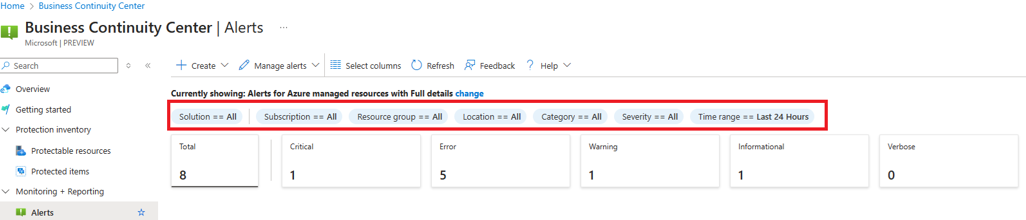
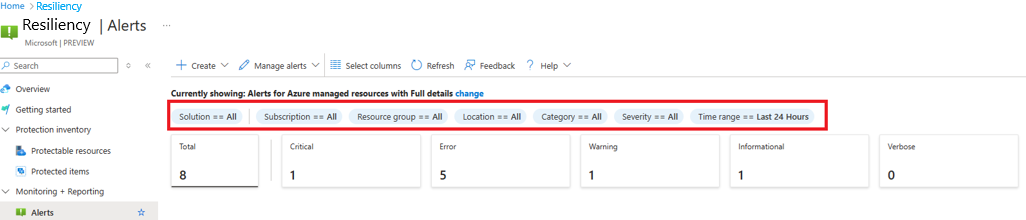
include file updates

Changed region(s): [[0.0, 0.0818, 0.2807, 0.1636], [0.0312, 0.0, 0.1559, 0.0545]]

diff --git a/includes/business-continuity-center-view-fired-alerts.md b/includes/business-continuity-center-view-fired-alerts.md
@@ -1,14 +1,14 @@
 ---
 author: AbhishekMallick-MS
-ms.author: v-abhmallick
-ms.date: 12/30/2024
+ms.author: v-mallicka
+ms.date: 11/01/2025
 ms.topic: include
-ms.service: azure-backup
+ms.service: azure-business-continuity-center
 ---
 
 To monitor the alerts, follow these steps:
 
-1. On **Business Continuity Center**, go to **Monitoring + Reporting** > **Alerts**. 
+1. On **Resiliency**, go to **Monitoring + Reporting** > **Alerts**. 
 
    The count of all alert rules appears that have at least one or more fired alerts in the selected time range.
 
